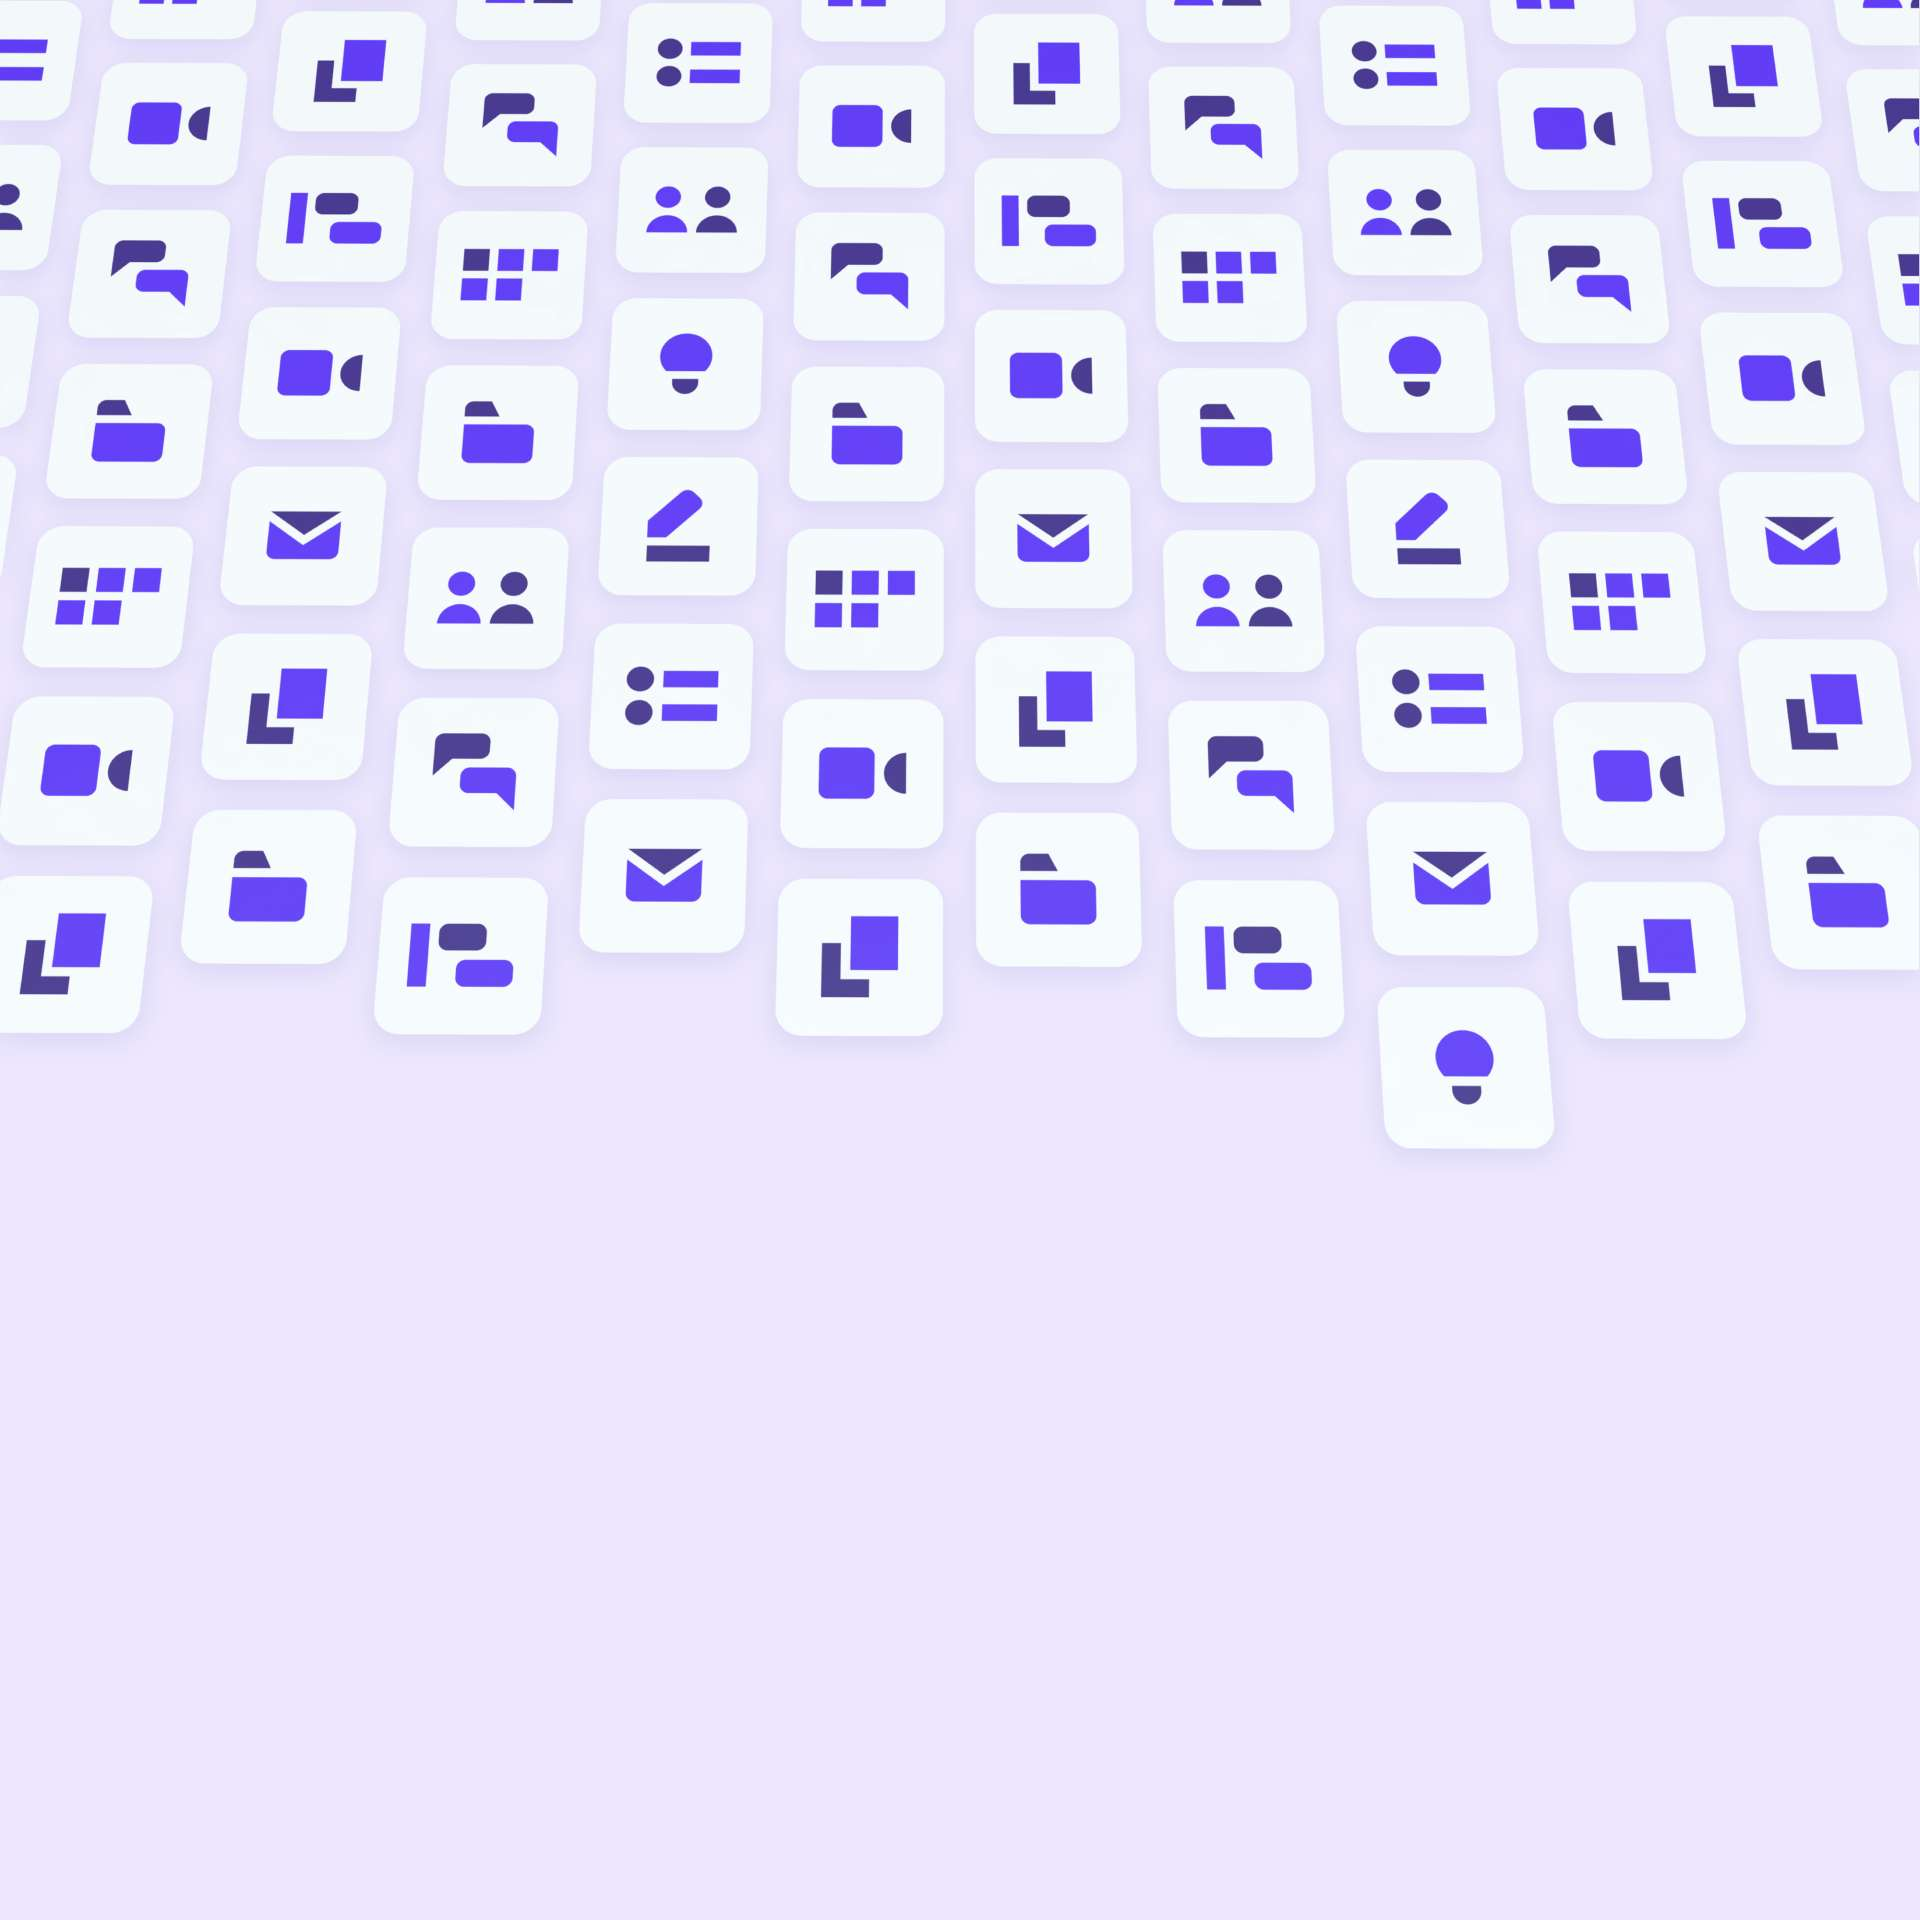
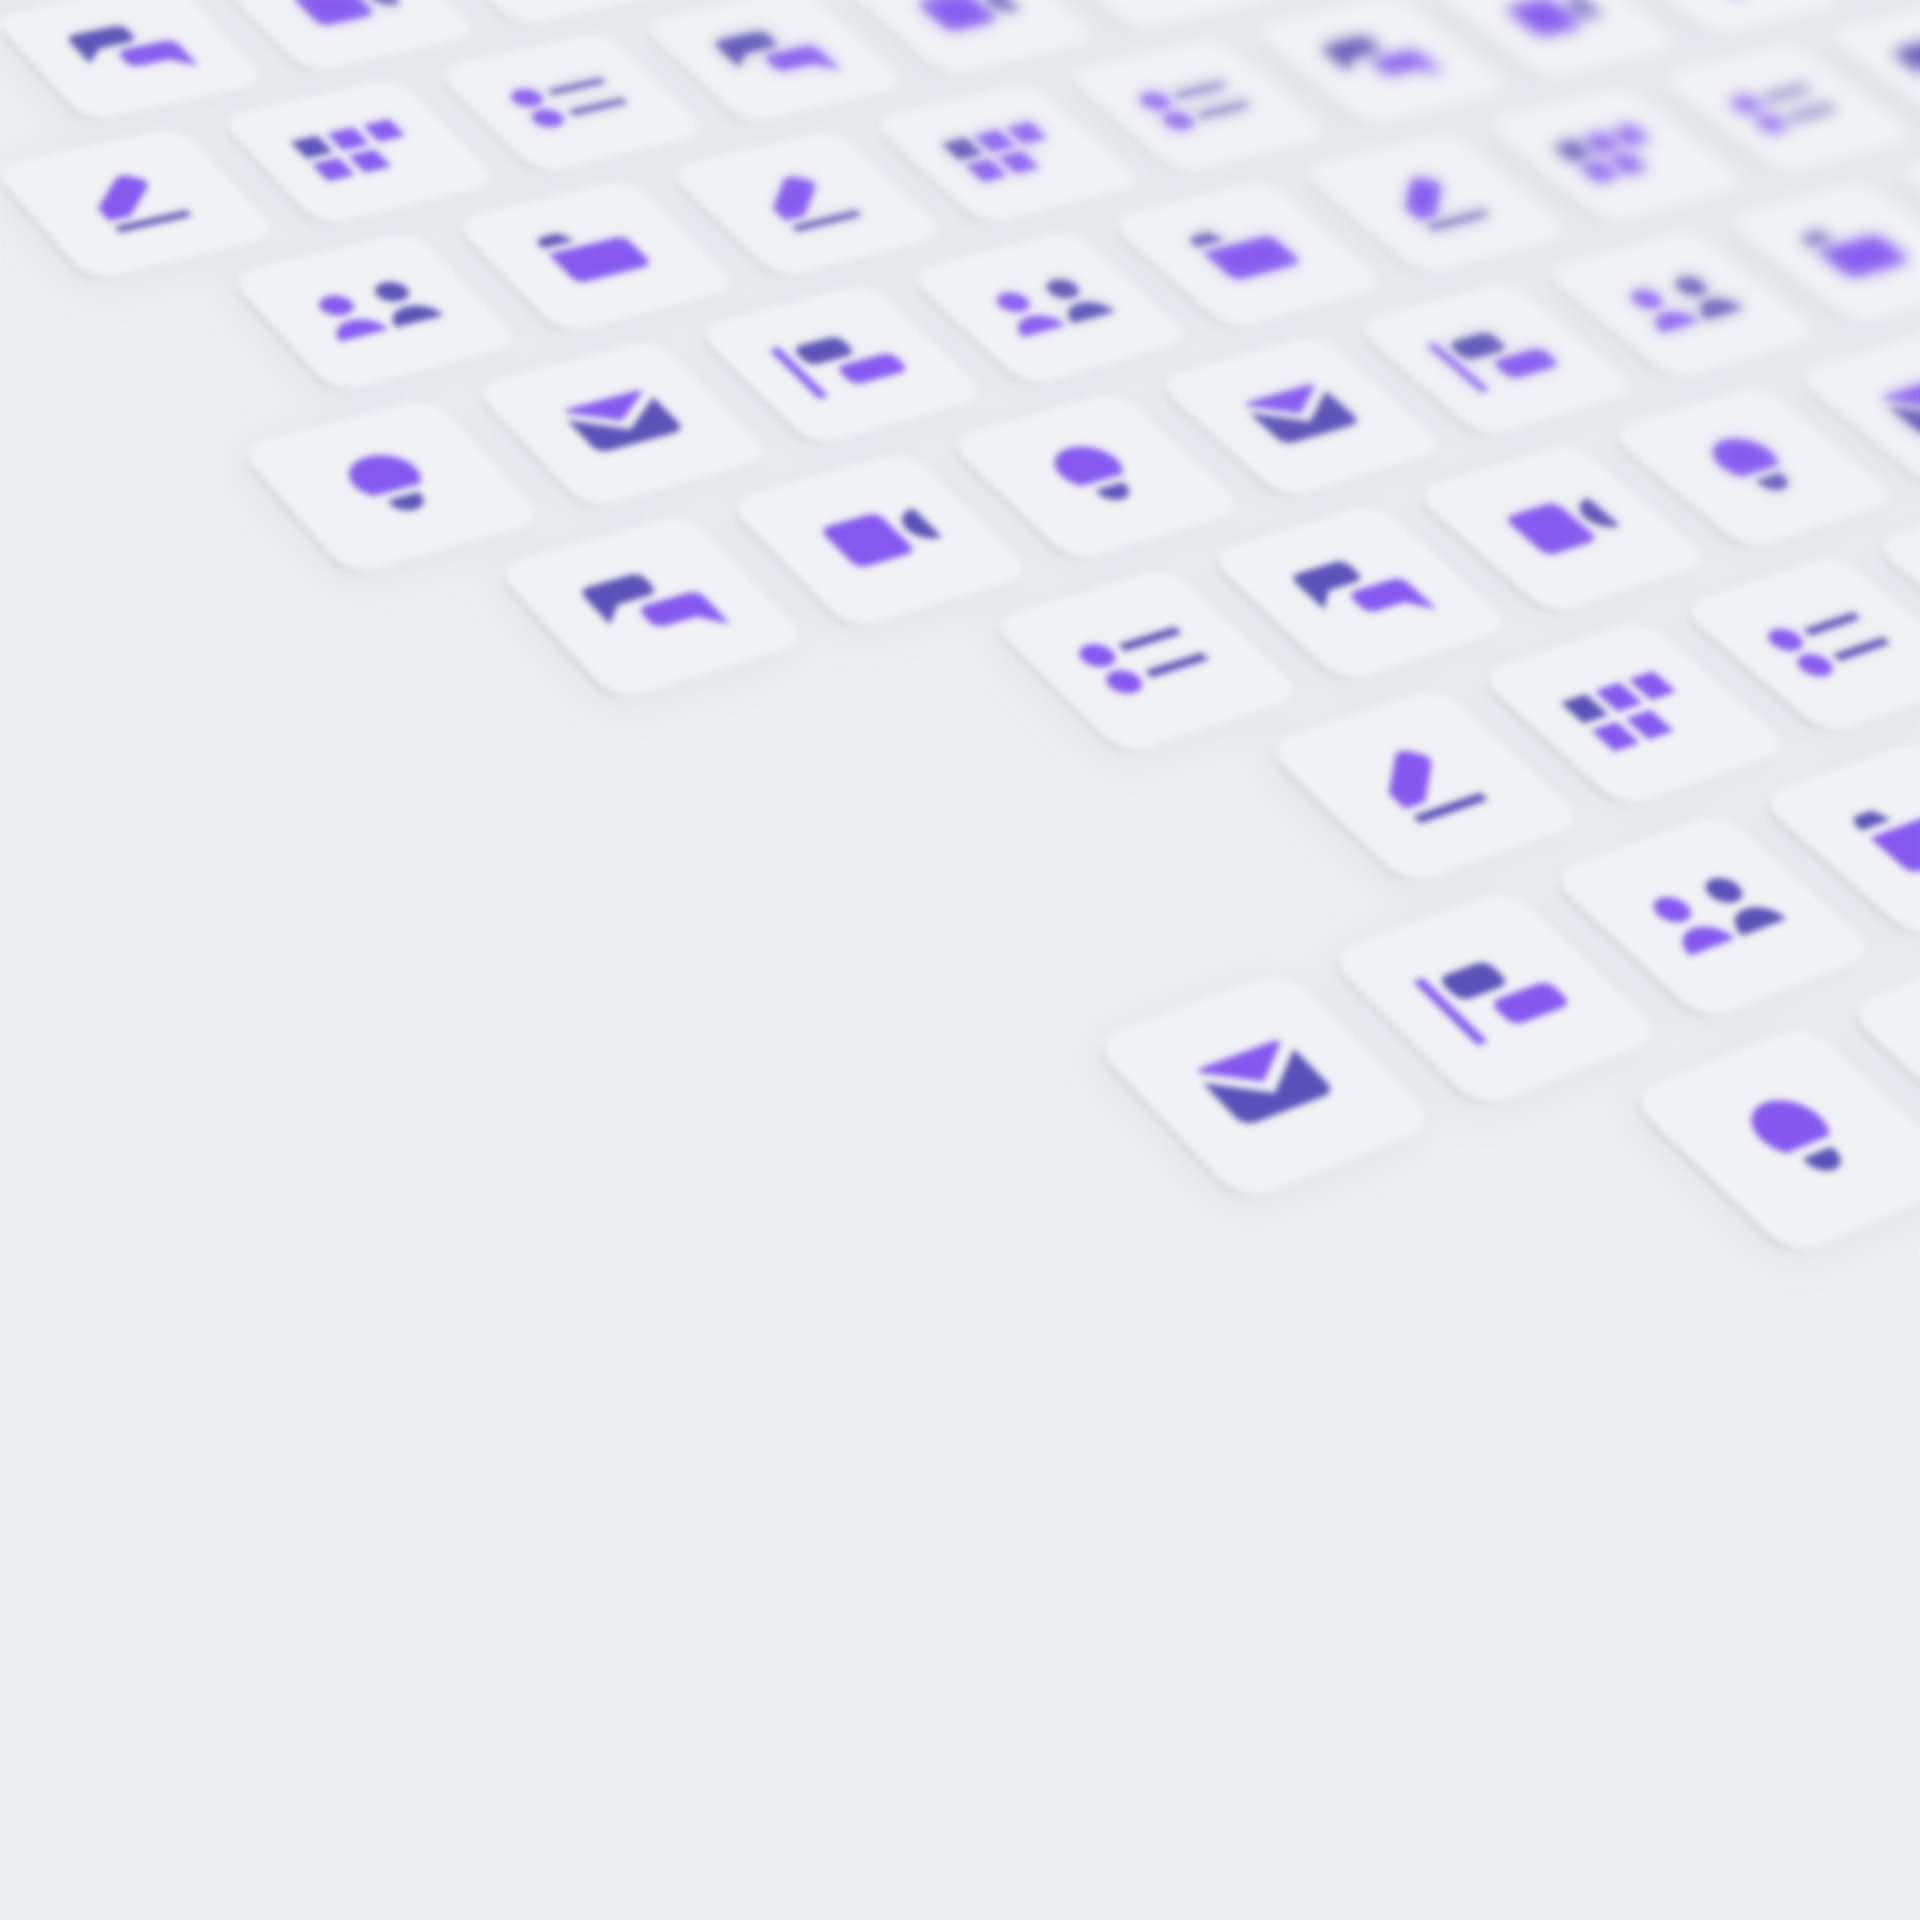
fix(nextcloud): App "Spreed" and core app "Comments" not enabled by default; review `migrations.md` for potential upgrade steps

diff --git a/docs/migrations.md b/docs/migrations.md
@@ -17,6 +17,7 @@ SPDX-License-Identifier: Apache-2.0
       * [New application default: XWiki blocks self-registration of user accounts](#new-application-default-xwiki-blocks-self-registration-of-user-accounts)
       * [New Helmfile default: Restricting characters for directory and filenames in fileshare module](#new-helmfile-default-restricting-characters-for-directory-and-filenames-in-fileshare-module)
       * [Helmfile new default: New groupware settings changing current behaviour](#helmfile-new-default-new-groupware-settings-changing-current-behaviour)
+      * [New application default: Fileshare module apps "Spreed" and "Comments" no longer enabled by default](#new-application-default-fileshare-module-apps-spreed-and-comments-no-longer-enabled-by-default)
   * [v1.7.0+](#v170)
     * [Pre-upgrade to v1.7.0+](#pre-upgrade-to-v170)
       * [Helmfile fix: Ensure enterprise overrides apply when deploying from project root](#helmfile-fix-ensure-enterprise-overrides-apply-when-deploying-from-project-root)
@@ -229,6 +230,26 @@ The following options, newly introduced in `functional.yaml.gotmpl`, modify the 
 
 > **Note**<br>
 > openDesk v1.8.0 adds even more options under `functional.groupware.*` while retaining the current default behaviour.
+
+#### New application default: Fileshare module apps "Spreed" and "Comments" no longer enabled by default
+
+**Target group:** All openDesk deployments using the fileshare module.
+
+The following fileshare module apps/functions are no longer enabled by default. Please check if they are required in your deployment, i.e. are used by the user:
+
+* [Spreed](https://apps.nextcloud.com/apps/spreed): Used in openDesk to provide a chat tab to the file/directory details pane in the fileshare application.
+* Comments: Core app that lets users leave comments in the activity tab of the file/directory details pane.
+
+If required the apps can be enabled using the openDesk customization options for `opendeskNextcloudManagement`, see `customizations.yaml.gotmpl` for details, with the following settings:
+```
+configuration:
+  feature:
+    comments:
+      enabled: true
+    apps:
+      spreed:
+        enabled: true
+```
 
 ## v1.7.0+
 
